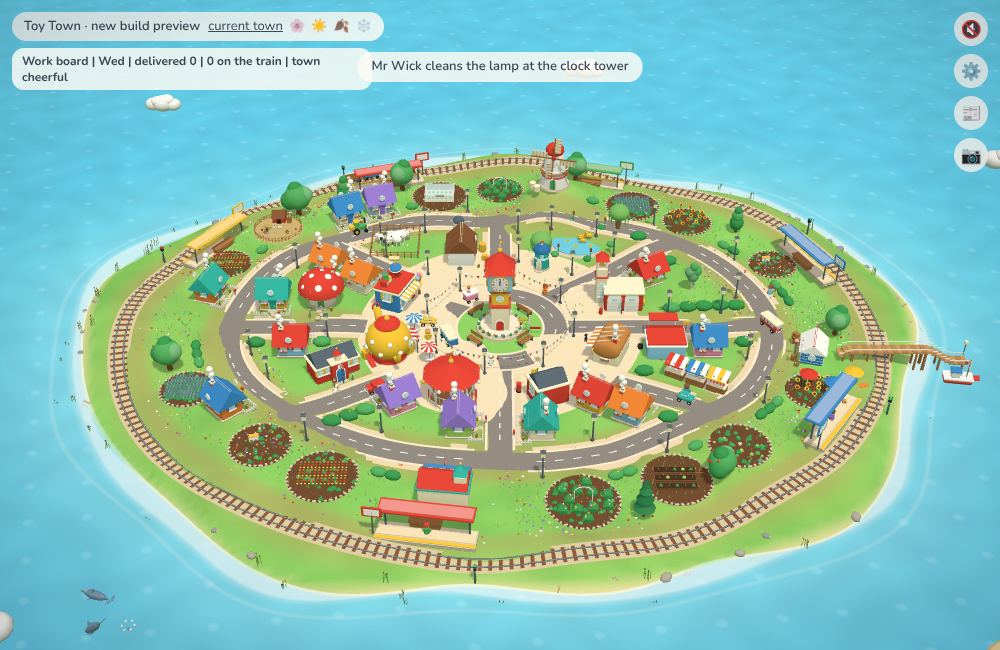
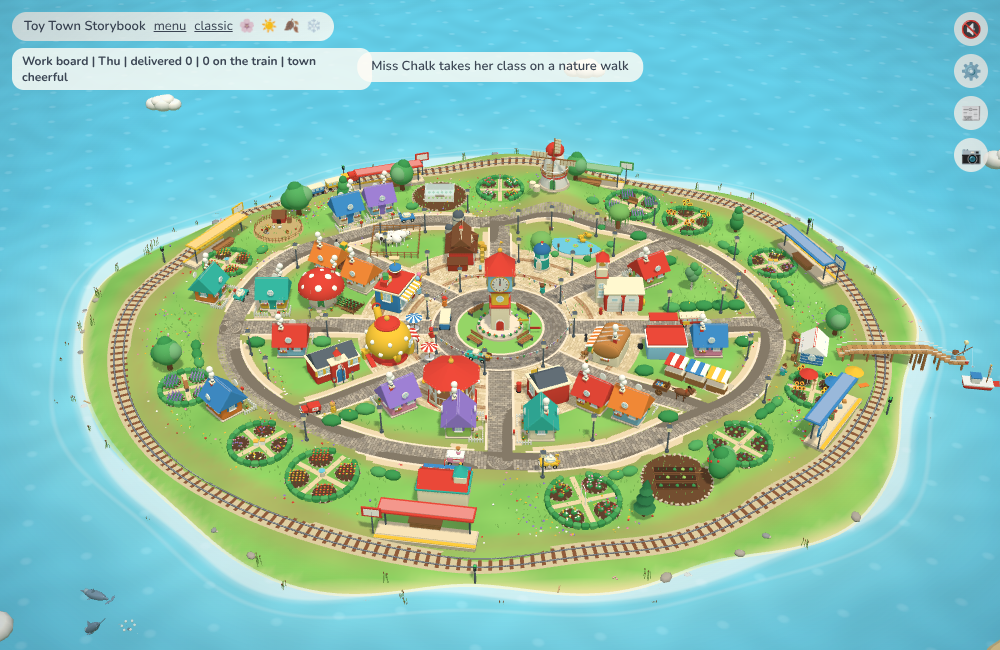
Toy Town Storybook: laid-stone roads and a cleaner city centre (#245)
* docs(toy-town): Claude START — KayKit roads and plaza landmarks

Claude-Session: https://claude.ai/code/session_016DDzLFPb4BuxMAThu2pji2

* Toy Town: KayKit roads and plaza landmarks

- Road tiles on the street grid (straight, zebra crossing by the plaza, T-splits on the edges, corners, junctions inside), oriented from measured base directions; river bridges kept; old organic roads, cues, verges and shoulders skipped with the kit.
- The five plaza buildings are KayKit models with BAKERY / BOOK NOOK signboards; the hand-built shop fronts stay in front unchanged.
- Kit GLB v2 (+5 road tiles, 0.97 MB); 3D cache v48.

Claude-Session: https://claude.ai/code/session_016DDzLFPb4BuxMAThu2pji2

* docs(toy-town): Claude DONE — KayKit roads and plaza landmarks

Claude-Session: https://claude.ai/code/session_016DDzLFPb4BuxMAThu2pji2

* docs(toy-town): Claude START — fps readout and a day in the life

Claude-Session: https://claude.ai/code/session_016DDzLFPb4BuxMAThu2pji2

* Toy Town: a day in the life and a ?fps readout

- Hour of day from the town clock; morning commuters (briefcases) and children in pairs (smaller, backpacks) leave homes for the edge of town; lunch diners eat at the café tables; evening residents walk home and go in; porch lamps light after dusk once someone is home; ticker notes each part of the day. At most 8 scheduled walkers.
- ?fps overlay: fps, draw ms, render pixel ratio.
- Cache keys sim v30, 3D v49, embed v59.
[…]

diff --git a/toy-town-new.html b/toy-town-new.html
@@ -81,45 +81,45 @@ html.ui-off #set,html.ui-off #panel,html.ui-off #paperBtn,html.ui-off #photoBtn,
 #dbg{position:fixed;left:calc(8px + env(safe-area-inset-left,0px));bottom:calc(8px + env(safe-area-inset-bottom,0px));padding:3px 8px;border-radius:8px;background:rgba(0,0,0,.6);color:#fff;font:600 11px/1.3 ui-monospace,Menlo,Consolas,monospace;pointer-events:none;z-index:9}
 html.ui-off #stack,html.ui-off #jobs,html.ui-off #toast,html.ui-off #snd,html.ui-off #chip,html.ui-off #hint,html.ui-off #story,html.ui-off #card{display:none}
 </style>
-<script type="importmap" data-stamp="c1e1484a62">
+<script type="importmap" data-stamp="5533b0315e">
 {"imports":{
   "three":"https://cdn.jsdelivr.net/npm/three@0.187.0/build/three.module.js",
   "three/addons/":"https://cdn.jsdelivr.net/npm/three@0.187.0/examples/jsm/",
-  "./assets/town2/angling.mjs":"./assets/town2/angling.mjs?v=c1e1484a62",
-  "./assets/town2/build.mjs":"./assets/town2/build.mjs?v=c1e1484a62",
-  "./assets/town2/chest.mjs":"./assets/town2/chest.mjs?v=c1e1484a62",
-  "./assets/town2/curve.mjs":"./assets/town2/curve.mjs?v=c1e1484a62",
-  "./assets/town2/def.mjs":"./assets/town2/def.mjs?v=c1e1484a62",
-  "./assets/town2/ecology.mjs":"./assets/town2/ecology.mjs?v=c1e1484a62",
-  "./assets/town2/events.mjs":"./assets/town2/events.mjs?v=c1e1484a62",
-  "./assets/town2/festival.mjs":"./assets/town2/festival.mjs?v=c1e1484a62",
-  "./assets/town2/festscene.mjs":"./assets/town2/festscene.mjs?v=c1e1484a62",
-  "./assets/town2/garden.mjs":"./assets/town2/garden.mjs?v=c1e1484a62",
-  "./assets/town2/graph.mjs":"./assets/town2/graph.mjs?v=c1e1484a62",
-  "./assets/town2/inspect.mjs":"./assets/town2/inspect.mjs?v=c1e1484a62",
-  "./assets/town2/lives.mjs":"./assets/town2/lives.mjs?v=c1e1484a62",
-  "./assets/town2/memory.mjs":"./assets/town2/memory.mjs?v=c1e1484a62",
-  "./assets/town2/mystery.mjs":"./assets/town2/mystery.mjs?v=c1e1484a62",
-  "./assets/town2/nature.mjs":"./assets/town2/nature.mjs?v=c1e1484a62",
-  "./assets/town2/needs.mjs":"./assets/town2/needs.mjs?v=c1e1484a62",
-  "./assets/town2/paper.mjs":"./assets/town2/paper.mjs?v=c1e1484a62",
-  "./assets/town2/quality.mjs":"./assets/town2/quality.mjs?v=c1e1484a62",
-  "./assets/town2/saga.mjs":"./assets/town2/saga.mjs?v=c1e1484a62",
-  "./assets/town2/sail.mjs":"./assets/town2/sail.mjs?v=c1e1484a62",
-  "./assets/town2/settings.mjs":"./assets/town2/settings.mjs?v=c1e1484a62",
-  "./assets/town2/sim.mjs":"./assets/town2/sim.mjs?v=c1e1484a62",
-  "./assets/town2/sky.mjs":"./assets/town2/sky.mjs?v=c1e1484a62",
-  "./assets/town2/smoke.mjs":"./assets/town2/smoke.mjs?v=c1e1484a62",
-  "./assets/town2/sound.mjs":"./assets/town2/sound.mjs?v=c1e1484a62",
-  "./assets/town2/stories.mjs":"./assets/town2/stories.mjs?v=c1e1484a62",
-  "./assets/town2/track.mjs":"./assets/town2/track.mjs?v=c1e1484a62",
-  "./assets/town2/treasure.mjs":"./assets/town2/treasure.mjs?v=c1e1484a62",
-  "./assets/town2/vote.mjs":"./assets/town2/vote.mjs?v=c1e1484a62",
-  "./assets/town2/weather.mjs":"./assets/town2/weather.mjs?v=c1e1484a62",
-  "./assets/town2/weather3d.mjs":"./assets/town2/weather3d.mjs?v=c1e1484a62",
-  "./assets/town2/wild3d.mjs":"./assets/town2/wild3d.mjs?v=c1e1484a62",
-  "./assets/town2/wildlife.mjs":"./assets/town2/wildlife.mjs?v=c1e1484a62",
-  "./assets/town2/wildscene.mjs":"./assets/town2/wildscene.mjs?v=c1e1484a62"
+  "./assets/town2/angling.mjs":"./assets/town2/angling.mjs?v=5533b0315e",
+  "./assets/town2/build.mjs":"./assets/town2/build.mjs?v=5533b0315e",
+  "./assets/town2/chest.mjs":"./assets/town2/chest.mjs?v=5533b0315e",
+  "./assets/town2/curve.mjs":"./assets/town2/curve.mjs?v=5533b0315e",
+  "./assets/town2/def.mjs":"./assets/town2/def.mjs?v=5533b0315e",
+  "./assets/town2/ecology.mjs":"./assets/town2/ecology.mjs?v=5533b0315e",
+  "./assets/town2/events.mjs":"./assets/town2/events.mjs?v=5533b0315e",
+  "./assets/town2/festival.mjs":"./assets/town2/festival.mjs?v=5533b0315e",
+  "./assets/town2/festscene.mjs":"./assets/town2/festscene.mjs?v=5533b0315e",
+  "./assets/town2/garden.mjs":"./assets/town2/garden.mjs?v=5533b0315e",
+  "./assets/town2/graph.mjs":"./assets/town2/graph.mjs?v=5533b0315e",
+  "./assets/town2/inspect.mjs":"./assets/town2/inspect.mjs?v=5533b0315e",
+  "./assets/town2/lives.mjs":"./assets/town2/lives.mjs?v=5533b0315e",
+  "./assets/town2/memory.mjs":"./assets/town2/memory.mjs?v=5533b0315e",
+  "./assets/town2/mystery.mjs":"./assets/town2/mystery.mjs?v=5533b0315e",
+  "./assets/town2/nature.mjs":"./assets/town2/nature.mjs?v=5533b0315e",
+  "./assets/town2/needs.mjs":"./assets/town2/needs.mjs?v=5533b0315e",
+  "./assets/town2/paper.mjs":"./assets/town2/paper.mjs?v=5533b0315e",
+  "./assets/town2/quality.mjs":"./assets/town2/quality.mjs?v=5533b0315e",
+  "./assets/town2/saga.mjs":"./assets/town2/saga.mjs?v=5533b0315e",
+  "./assets/town2/sail.mjs":"./assets/town2/sail.mjs?v=5533b0315e",
+  "./assets/town2/settings.mjs":"./assets/town2/settings.mjs?v=5533b0315e",
+  "./assets/town2/sim.mjs":"./assets/town2/sim.mjs?v=5533b0315e",
+  "./assets/town2/sky.mjs":"./assets/town2/sky.mjs?v=5533b0315e",
+  "./assets/town2/smoke.mjs":"./assets/town2/smoke.mjs?v=5533b0315e",
+  "./assets/town2/sound.mjs":"./assets/town2/sound.mjs?v=5533b0315e",
+  "./assets/town2/stories.mjs":"./assets/town2/stories.mjs?v=5533b0315e",
+  "./assets/town2/track.mjs":"./assets/town2/track.mjs?v=5533b0315e",
+  "./assets/town2/treasure.mjs":"./assets/town2/treasure.mjs?v=5533b0315e",
+  "./assets/town2/vote.mjs":"./assets/town2/vote.mjs?v=5533b0315e",
+  "./assets/town2/weather.mjs":"./assets/town2/weather.mjs?v=5533b0315e",
+  "./assets/town2/weather3d.mjs":"./assets/town2/weather3d.mjs?v=5533b0315e",
+  "./assets/town2/wild3d.mjs":"./assets/town2/wild3d.mjs?v=5533b0315e",
+  "./assets/town2/wildlife.mjs":"./assets/town2/wildlife.mjs?v=5533b0315e",
+  "./assets/town2/wildscene.mjs":"./assets/town2/wildscene.mjs?v=5533b0315e"
 }}
 </script>
 </head>
@@ -141,7 +141,7 @@ html.ui-off #stack,html.ui-off #jobs,html.ui-off #toast,html.ui-off #snd,html.ui
 <div id="fail"><div>The new town could not start.<br><a href="toy-town.html">Open the current town</a>, or try a hard refresh (Ctrl+F5).<br><small id="why"></small><br><small>If it mentions WebGL, turn on hardware acceleration in the browser's settings (in Edge: edge://settings/system).</small></div></div>
 <script>if(/[?&]clean=1\b/.test(location.search))document.documentElement.classList.add('ui-off');</script>
 <script type="module">
-  import('./assets/town2/main.mjs?v=c1e1484a62').catch(e => { console.error(e); document.getElementById('why').textContent = (e && (e.name + ': ' + e.message)) || String(e); document.getElementById('fail').style.display = 'flex'; });
+  import('./assets/town2/main.mjs?v=5533b0315e').catch(e => { console.error(e); document.getElementById('why').textContent = (e && (e.name + ': ' + e.message)) || String(e); document.getElementById('fail').style.display = 'flex'; });
 </script>
 </body>
 </html>

diff --git a/TOY_TOWN_NEW_SPEC.md b/TOY_TOWN_NEW_SPEC.md
@@ -207,6 +207,10 @@ the stamp is stale. If the page cannot start, its panel now shows the real error
 
 `ecology.mjs` is a small pure model, `sim.eco`: meadow, flowers, bees, honey, farm eggs/milk, the bakery/café/market pantry, the sea and pests. Rain and season grow the meadow; the meadow grows flowers, flowers feed bees, bees make honey; the meadow also feeds hens and cows. The horse cart and the pick-up carry eggs, milk and honey from the farm to the bakery, café and market; the bakery uses an egg and some milk per meal and serves a plain roll (and notes it) when the pantry is empty. Each catch lowers the sea; it regrows slowly, and fishermen stay ashore when the sea is poor (or `eco.rest`). Everything is bounded (`FLOOR`, `CAP`) so nothing collapses. Visible signs: dolphin pod size and whales follow the sea, meadow flower count follows the bloom, bees buzz when it is dry and bright; the Nature panel shows "The land". Player-influence hooks (`eco.boost.flowers/hens`, `eco.rest`) exist and are tested; their UI comes in a later release.
 
+## 4c. Laid-stone roads and the square
+
+Every street, the ring road and the junction patches are paved with individual setts (`settRibbon`, `settDisc` in `build.mjs`): small quads in their own shade, laid in courses with staggered joints over a darker grout layer, merged into the ground geometry (no extra draw calls, about +40k triangles). The square is sand-coloured setts in rings round the clock tower with two darker bands; the ring road and streets are grey. There are no painted dashes any more (the zebra crossings stay). The grout discs of the square are built in thin rings so they follow the lie of the ground (one big disc poked through the setts on the slope). Spring petals are small (150 of .13 x .10) so they no longer read as paper.
+
 ## 5. Art rules
 
 - Fat, rounded, slightly wonky. No sharp corners: `bag.box` is a rounded box; roofs overhang.

diff --git a/TOY_TOWN_COLLAB.md b/TOY_TOWN_COLLAB.md
@@ -1360,3 +1360,12 @@ A `START` does not prohibit parallel edits. Avoid stepping on each other's uncom
 - **Tests**: new logic block (bounds over 30 days per season, boost, rest day, floor, eatAt, deliver, peace, sim deliveries, poor-sea fishing vs control).
 - **Not verified**: browser screenshot of bees/pod size (see next entry if added); real phone.
 - **Still to come**: D) interdependence stories; E) story director + chronicle; F) player influence UI.
+
+### 2026-11-12 · Claude · START (new storybook town, follow-up 21: a cleaner city centre with laid-stone roads)
+- **Base**: master 1fb46f0. **Request (owner, with a phone screenshot)**: "City centre is not cleaner and the roads are not proper laid stone roads in the centre of city; make things better." **Plan**: stone setts (running-bond cobbles, concentric round the clock tower) for the square, the ring road and the inner ends of the streets, with a stone kerb and no painted dashes there; tidier centre (smaller, fewer petals; less clutter round the square); keep draw calls (setts go into the merged ground geometry). Next in the ecosystem plan after this: D) interdependence stories, E) story director, F) player influence.
+
+### 2026-11-12 · Claude · DONE (new storybook town, follow-up 21: laid-stone roads and a cleaner centre)
+- **Request (owner)**: the city centre is not clean and the roads should be proper laid stone. **Done**: spec section 4c. Setts for the square (sand rings and bands round the tower), the ring road, all streets and junctions; painted dashes removed; spring petals smaller and fewer.
+- **Tests**: logic and browser suites pass (91 calls, 632k triangles); phone-size and desktop screenshots checked by hand.
+- **Not verified**: a real phone; the lite tier still draws all setts (they are static geometry, so cheap).
+
